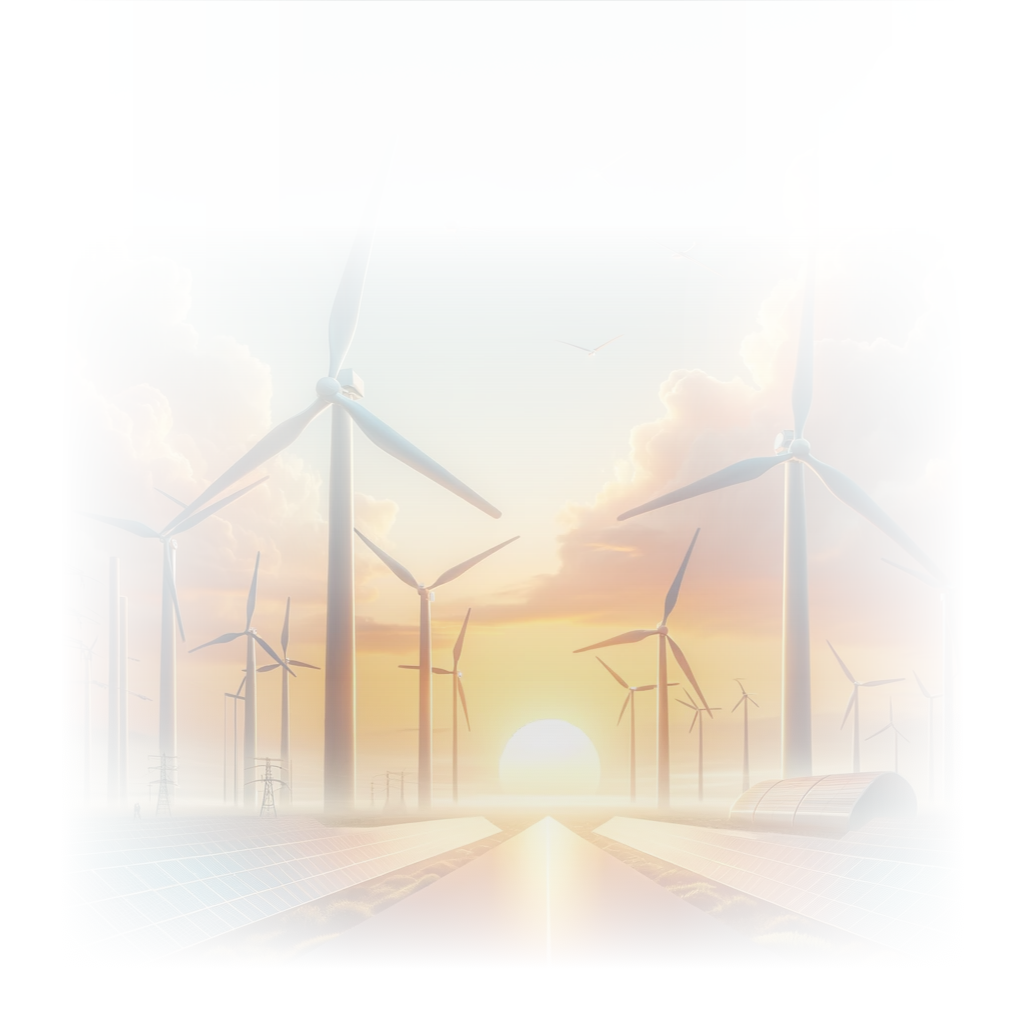
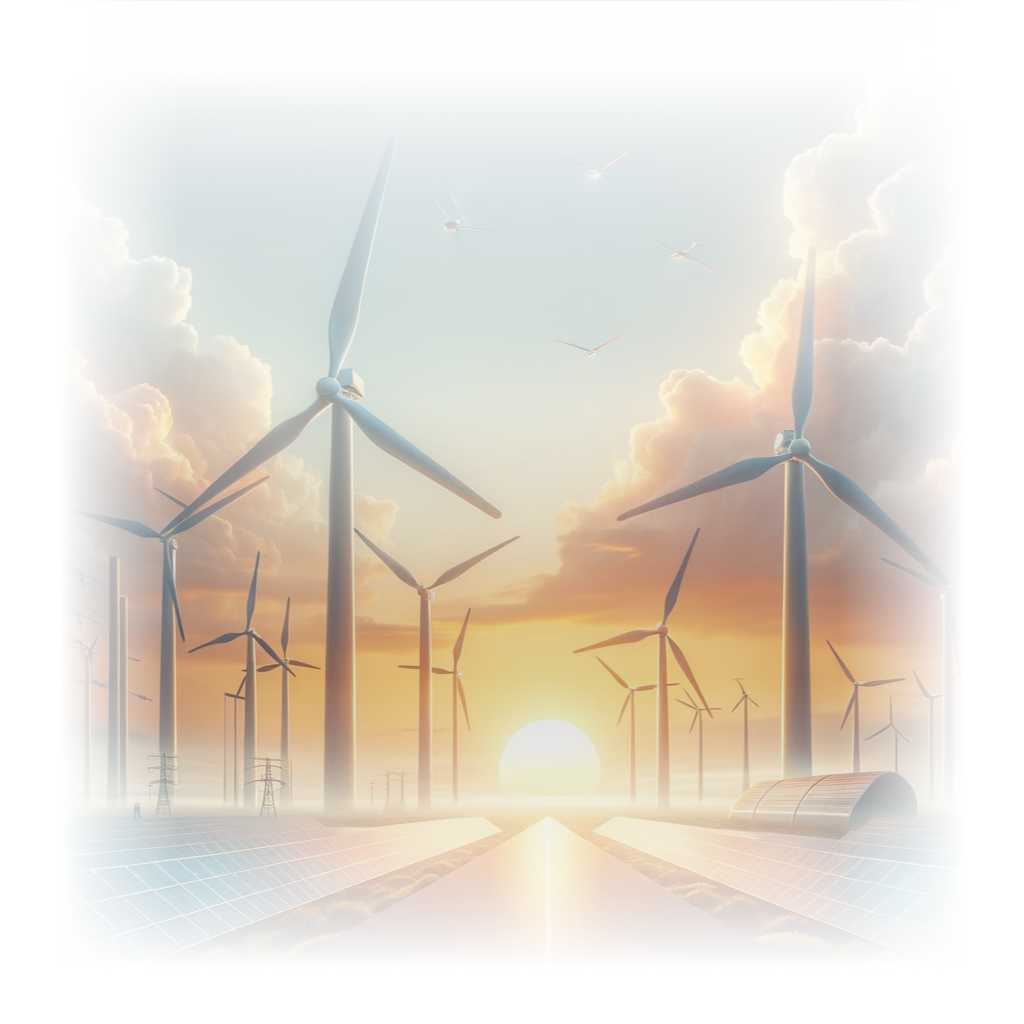
refine home page

diff --git a/investor-portal/src/pages/Home.js b/investor-portal/src/pages/Home.js
@@ -8,18 +8,20 @@ const Home = () => {
       className="home-page-container"
       style={{
         backgroundImage: `url(${homeImg})`,
-        backgroundSize: 'cover',
-        backgroundPosition: 'center top', // This will align the image to the top
-        minHeight: '250vh', // You might want to change this back to 100vh if it's too tall
+        backgroundSize: '90vw auto', // Scales the width to 80% of the viewport width, height is auto to maintain aspect ratio
+        backgroundPosition: 'center', // Keeps the image centered both vertically and horizontally
+        minHeight: '180vh', // Adjust as needed for your design
         width: '100%',
         display: 'flex',
         flexDirection: 'column',
+        backgroundRepeat: 'no-repeat',
       }}
     >
+  
 
       <div className="hero-section" style={{ marginTop: '8rem', padding: '4rem', backgroundColor: 'rgba(255, 255, 255, 0.5)' }}>
         <h1 className="section-header">Invest in Energy, Empower the Future</h1>
-        <p>Penomo democratizes investment in energy irastructure, enabling you to directly own a stake and earn revenue from sustainable energy projects. Start investing in a future that pays back — to you and the planet.</p>
+        <p>penomo democratizes investment in energy irastructure, enabling you to directly own a stake and earn revenue from sustainable energy projects. Start investing in a future that pays back — to you and the planet.</p>
       </div>
     </div>
   );
